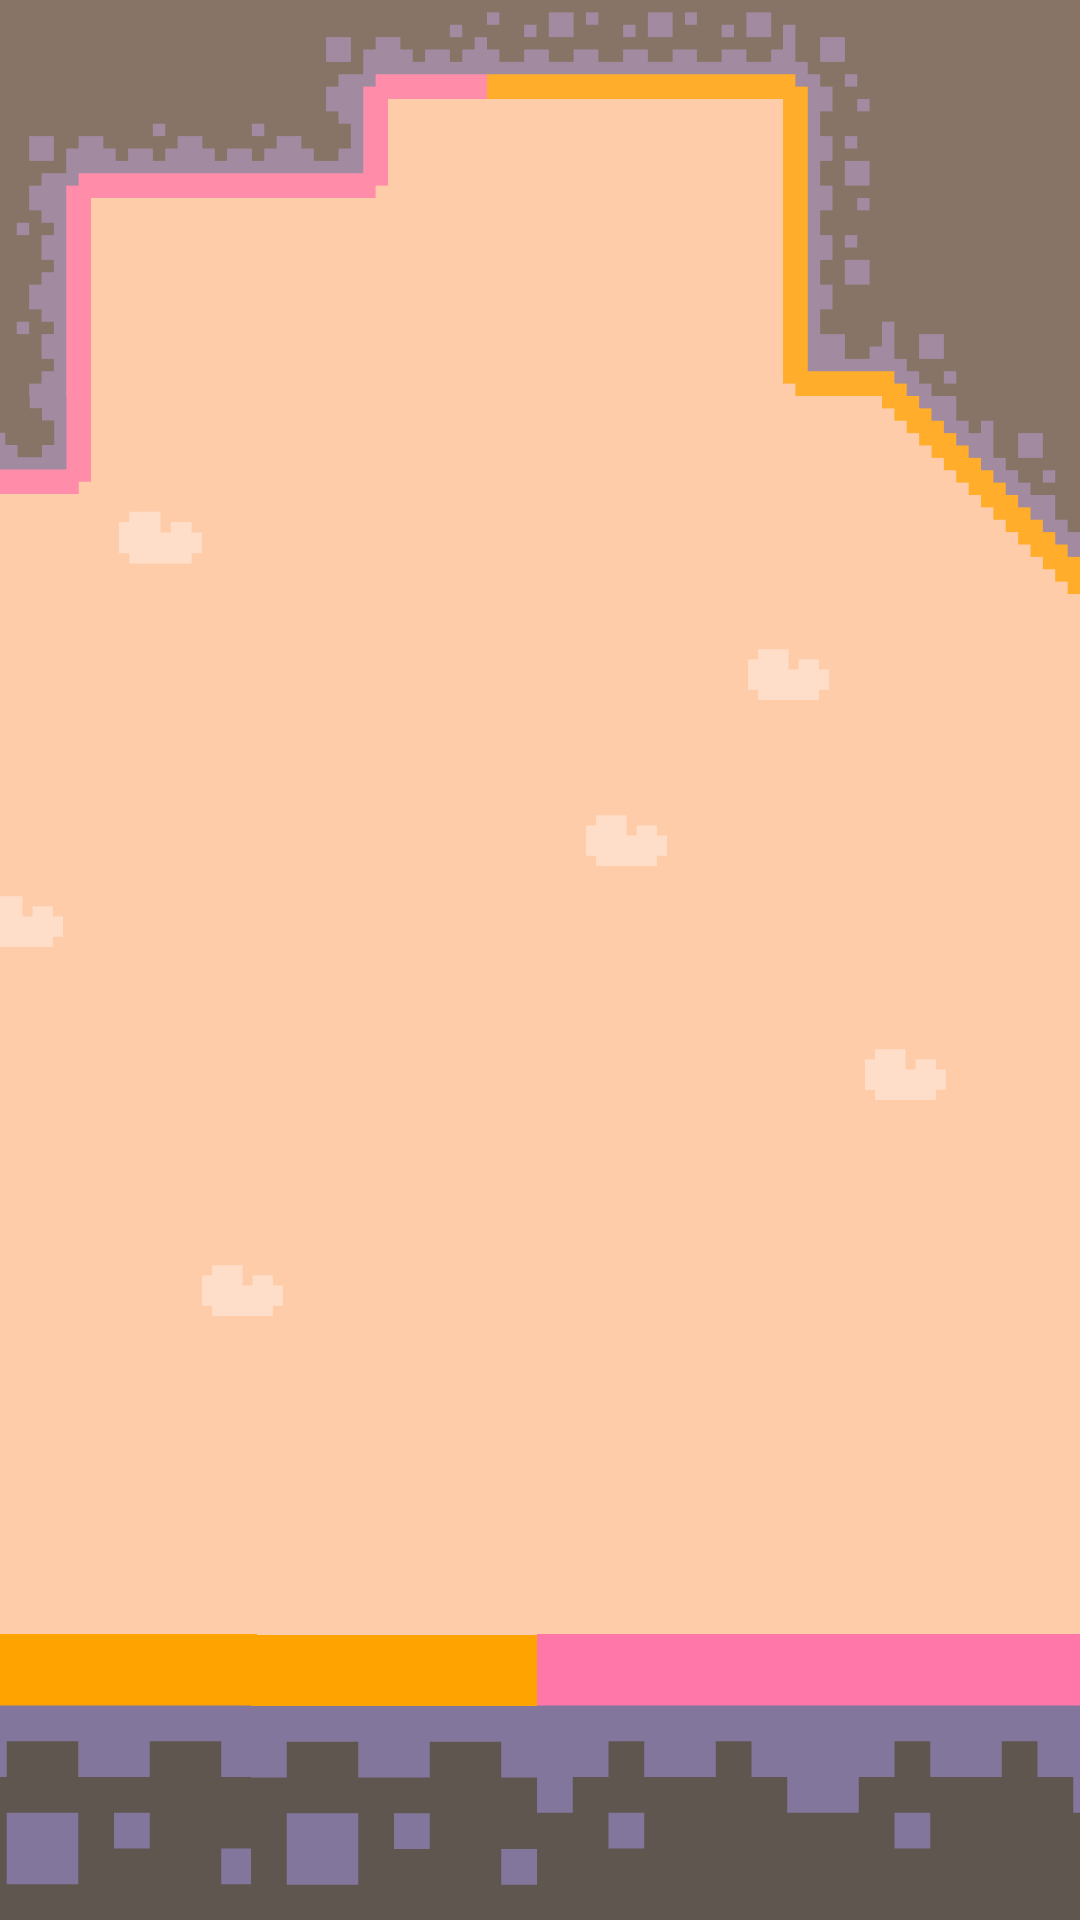
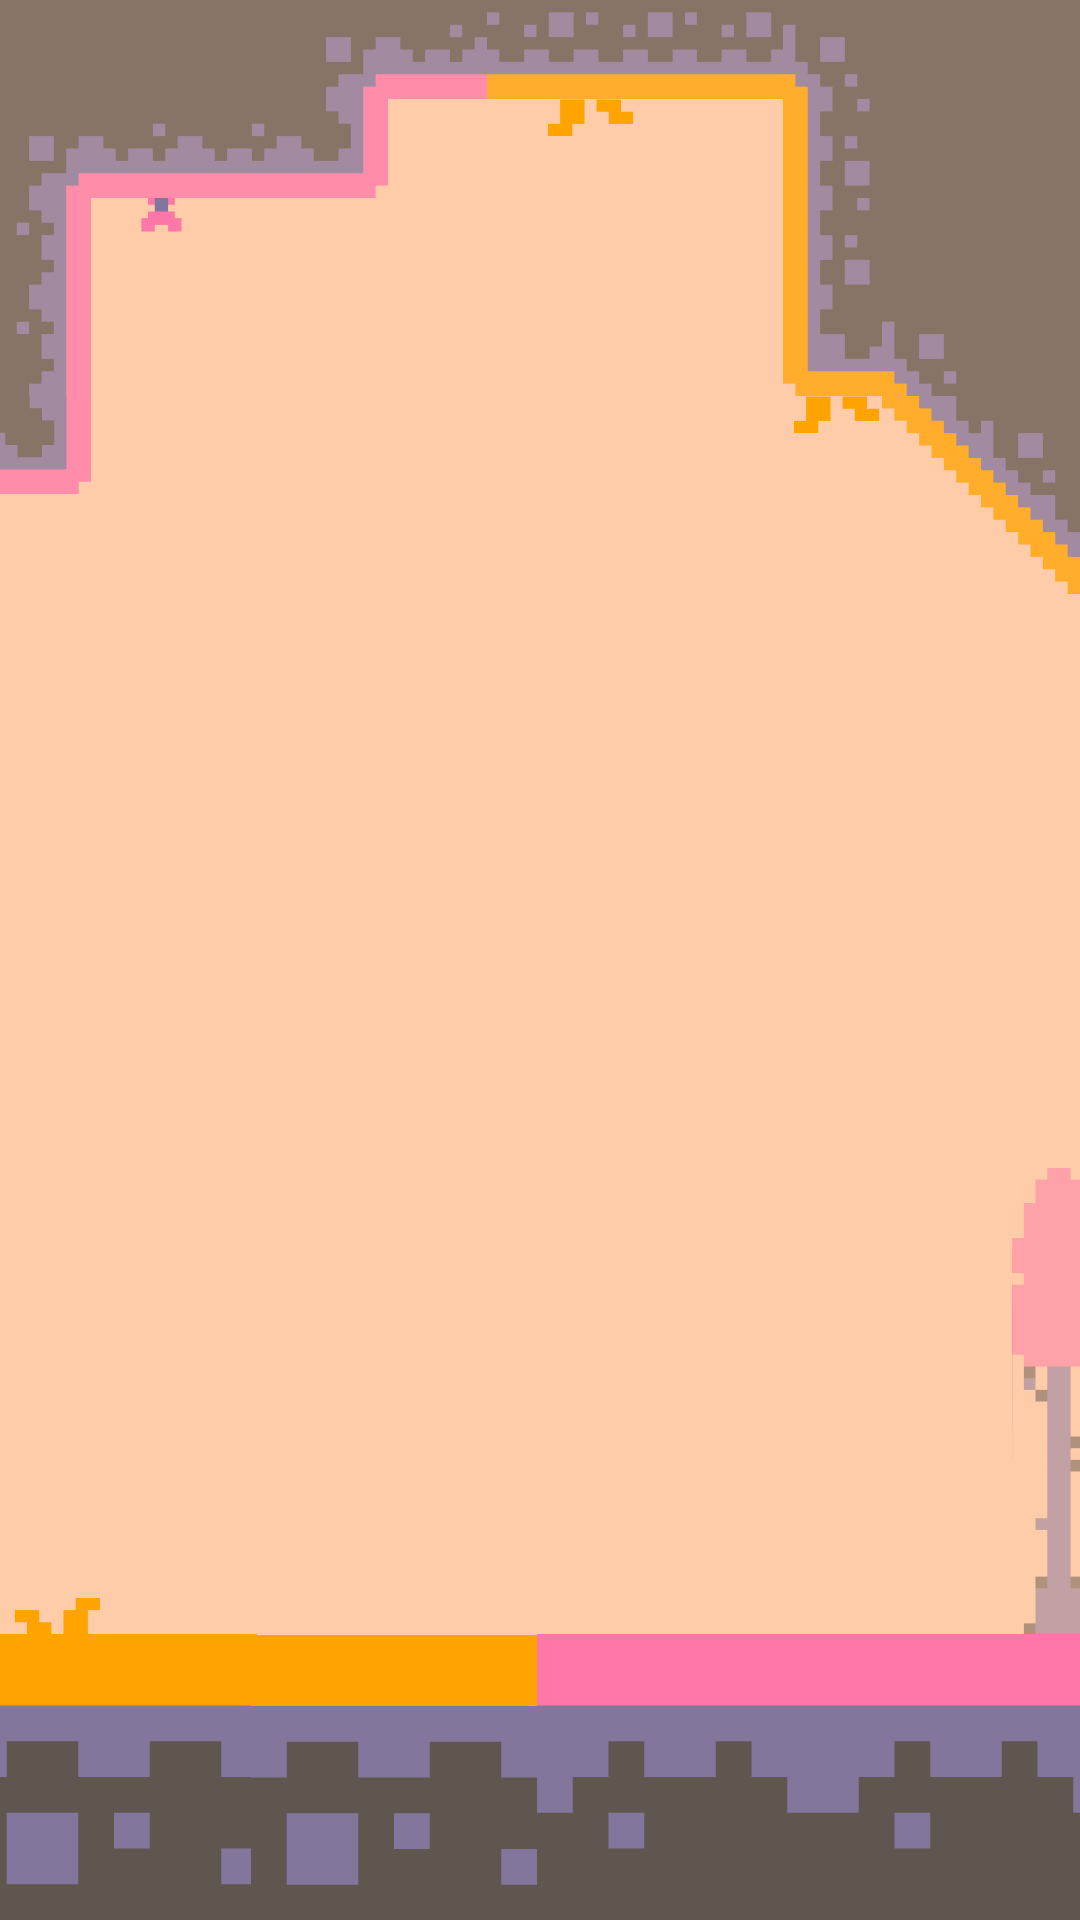
Add Tutorial Part 3
I added the rolling red ball element that the
player has to avoid.

I also updated the bg and separated the cloud
in order for it to be animated later.

diff --git a/src/game/controllers/TutorialManager.js b/src/game/controllers/TutorialManager.js
@@ -8,6 +8,15 @@ export class TutorialManager {
     this.playerController = playerController;
     this.inputHandler = inputHandler;
     this.isTutorialActive = false;
+
+    // 1. Constant Text Style
+    this.textStyle = {
+      fontFamily: '"Press Start 2P"',
+      fontSize: "40px",
+      fill: "#1d2b53",
+      align: "center",
+      wordWrap: { width: 900 },
+    };
   }
 
   createSpikeTrail(spike) {
@@ -48,8 +57,13 @@ export class TutorialManager {
             "Swipe to the left (Or Press A) this time",
             "left",
             () => {
-              this.isTutorialActive = false;
-              console.log("Tutorial Complete");
+              // Part 3: Red Rolling Ball
+              this.scene.time.delayedCall(800, () => {
+                this.spawnRollingBall(() => {
+                  this.showFinalText();
+                  this.isTutorialActive = false;
+                });
+              });
             }
           );
         });
@@ -58,10 +72,8 @@ export class TutorialManager {
   }
 
   spawnFallingSpike(xPos, instructionText, direction, onComplete) {
-    // 1. Disable player movement
     this.inputHandler.enabled = false;
 
-    // 2. Summon spike
     const spike = this.scene.physics.add.sprite(xPos, -100, "spike");
     spike.setScale(GAME_CONFIG.PLAYER.SCALE - 10);
     spike.setGravityY(1000);
@@ -70,9 +82,8 @@ export class TutorialManager {
 
     const trail = this.createSpikeTrail(spike);
 
-    // 3. Freeze halfway detection
     const freezeEvent = this.scene.time.addEvent({
-      delay: 16, // roughly 60fps check
+      delay: 16,
       callback: () => {
         if (!spike.active) {
           freezeEvent.remove();
@@ -81,12 +92,10 @@ export class TutorialManager {
 
         if (spike.y >= 800 && !spike.isPaused) {
           spike.isPaused = true;
-          // Stop physics immediately
           spike.body.setAllowGravity(false);
           spike.setVelocity(0);
           trail.stop();
 
-          // Show UI
           this.showTutorialUI(
             spike,
             trail,
@@ -94,8 +103,6 @@ export class TutorialManager {
             direction,
             onComplete
           );
-
-          // CRITICAL: Kill this loop immediately to prevent duplicate UI
           freezeEvent.remove();
         }
       },
@@ -104,22 +111,147 @@ export class TutorialManager {
     });
   }
 
-  showTutorialUI(spike, trail, instructionText, direction, onComplete) {
-    // 4. Display Text
-    const style = {
-      fontFamily: '"Press Start 2P"',
-      fontSize: "40px",
-      fill: "#1d2b53",
-      align: "center",
-      wordWrap: { width: 900 },
-    };
+  spawnRollingBall(onComplete) {
+    this.inputHandler.enabled = false;
+    let hasTriggeredFreeze = false;
 
+    // Side logic
+    const playerX = this.playerController.player.x;
+    const spawnRight = playerX < 540;
+    const spawnX = spawnRight ? 1200 : -120;
+    const targetVelocity = spawnRight ? -600 : 600;
+
+    const ball = this.scene.physics.add.sprite(
+      spawnX,
+      GAME_CONFIG.GROUND.Y - 50,
+      "red"
+    );
+    ball.setScale(GAME_CONFIG.PLAYER.SCALE - 10);
+    ball.setDepth(5);
+    ball.setCircle(ball.width / 2);
+    ball.setVelocityX(targetVelocity);
+    ball.body.setAllowGravity(false);
+
+    // Roll animation
+    const rollTween = this.scene.tweens.add({
+      targets: ball,
+      angle: spawnRight ? -360 : 360,
+      duration: 1000,
+      repeat: -1,
+    });
+
+    const checkDistance = this.scene.time.addEvent({
+      delay: 16,
+      callback: () => {
+        if (!ball.active || hasTriggeredFreeze) return;
+
+        const distance = Math.abs(ball.x - this.playerController.player.x);
+        if (distance <= 250) {
+          hasTriggeredFreeze = true;
+          ball.setVelocityX(0);
+          rollTween.pause();
+          checkDistance.remove();
+          this.showJumpUI(ball, rollTween, onComplete);
+        }
+      },
+      callbackScope: this,
+      loop: true,
+    });
+  }
+
+  showJumpUI(ball, rollTween, onComplete) {
     const text = this.scene.add
-      .text(540, 1000, instructionText, style)
+      .text(540, 1000, "Jump to avoid that thing", this.textStyle)
       .setOrigin(0.5)
       .setDepth(100);
 
-    // 5. Display hand gesturing
+    const hand = this.scene.add
+      .image(540, 1300, "hand")
+      .setScale(10)
+      .setDepth(101);
+
+    const handTween = this.scene.tweens.add({
+      targets: hand,
+      y: 1150,
+      duration: 1000,
+      repeat: -1,
+      ease: "Power2",
+    });
+
+    this.inputHandler.enabled = true;
+
+    const originalJump = this.playerController.jump.bind(this.playerController);
+    this.playerController.jump = () => {
+      originalJump();
+      this.playerController.jump = originalJump; // Restore immediately
+
+      text.destroy();
+      handTween.stop();
+      hand.destroy();
+      rollTween.resume();
+
+      const playerX = this.playerController.player.x;
+      const resumeVelocity = ball.x > playerX ? -1200 : 1200;
+      ball.setVelocityX(resumeVelocity);
+
+      // Out of screen check
+      const exitCheck = this.scene.time.addEvent({
+        delay: 100,
+        callback: () => {
+          if (!ball.active) {
+            exitCheck.remove();
+            return;
+          }
+          if (ball.x < -300 || ball.x > 1400) {
+            ball.destroy();
+            exitCheck.remove();
+            if (onComplete) onComplete();
+          }
+        },
+        callbackScope: this,
+        loop: true,
+      });
+    };
+  }
+
+  showFinalText() {
+    // Only one instance of final text allowed
+    if (this.finalTextObj) return;
+
+    this.finalTextObj = this.scene.add
+      .text(540, 960, "You are Ready", this.textStyle)
+      .setOrigin(0.5)
+      .setDepth(100)
+      .setScale(0);
+
+    this.scene.tweens.add({
+      targets: this.finalTextObj,
+      scale: 1.5,
+      duration: 500,
+      ease: "Back.easeOut",
+      onComplete: () => {
+        this.scene.time.delayedCall(2000, () => {
+          if (!this.finalTextObj) return;
+          this.scene.tweens.add({
+            targets: this.finalTextObj,
+            alpha: 0,
+            duration: 1000,
+            onComplete: () => {
+              this.finalTextObj.destroy();
+              this.finalTextObj = null;
+            },
+          });
+        });
+      },
+    });
+  }
+
+  showTutorialUI(spike, trail, instructionText, direction, onComplete) {
+    const text = this.scene.add
+      .text(540, 1000, instructionText, this.textStyle)
+      .setOrigin(0.5)
+      .setDepth(100);
+
     const startX = direction === "right" ? 400 : 680;
     const endX = direction === "right" ? 680 : 400;
 
@@ -127,8 +259,6 @@ export class TutorialManager {
       .image(startX, 1200, "hand")
       .setScale(10)
       .setDepth(101);
-
-    if (direction === "left") hand.setFlipX(true);
 
     const handTween = this.scene.tweens.add({
       targets: hand,
@@ -138,35 +268,26 @@ export class TutorialManager {
       ease: "Cubic.easeInOut",
     });
 
-    // 6. Enable movement
     this.inputHandler.enabled = true;
 
-    // 7. Wait for Swipe/Action
     const targetMethod = direction === "right" ? "dashRight" : "dashLeft";
     const originalMethod = this.playerController[targetMethod].bind(
       this.playerController
     );
 
-    // Override the specific dash method for the tutorial step
     this.playerController[targetMethod] = () => {
-      // Execute move
       originalMethod();
-
-      // Restore original function immediately to prevent double-triggering
       this.playerController[targetMethod] = originalMethod;
 
-      // Cleanup UI elements
       text.destroy();
       handTween.stop();
       hand.destroy();
 
-      // Resume spike
       trail.start();
       spike.isPaused = false;
       spike.body.setAllowGravity(true);
-      spike.setGravityY(4000); // Faster drop for impact feel
+      spike.setGravityY(4000);
 
-      // 8. Ground impact logic
       const groundCollider = this.scene.physics.add.collider(
         spike,
         this.scene.ground,
@@ -178,6 +299,7 @@ export class TutorialManager {
     };
   }
 
+  // 2. Constant Crumble Animation
   spikeCrumble(spike, trail, onComplete) {
     trail.stop();
     this.scene.tweens.add({

diff --git a/src/game/scenes/Game.js b/src/game/scenes/Game.js
@@ -17,6 +17,7 @@ export class Game extends Scene {
     this.load.image("background", "bg.png");
     this.load.image("spike", "spike.png");
     this.load.image("hand", "hand.png");
+    this.load.image("red", "red.png");
     this.load.spritesheet("player", "blu.png", {
       frameWidth: 9,
       frameHeight: 7,
